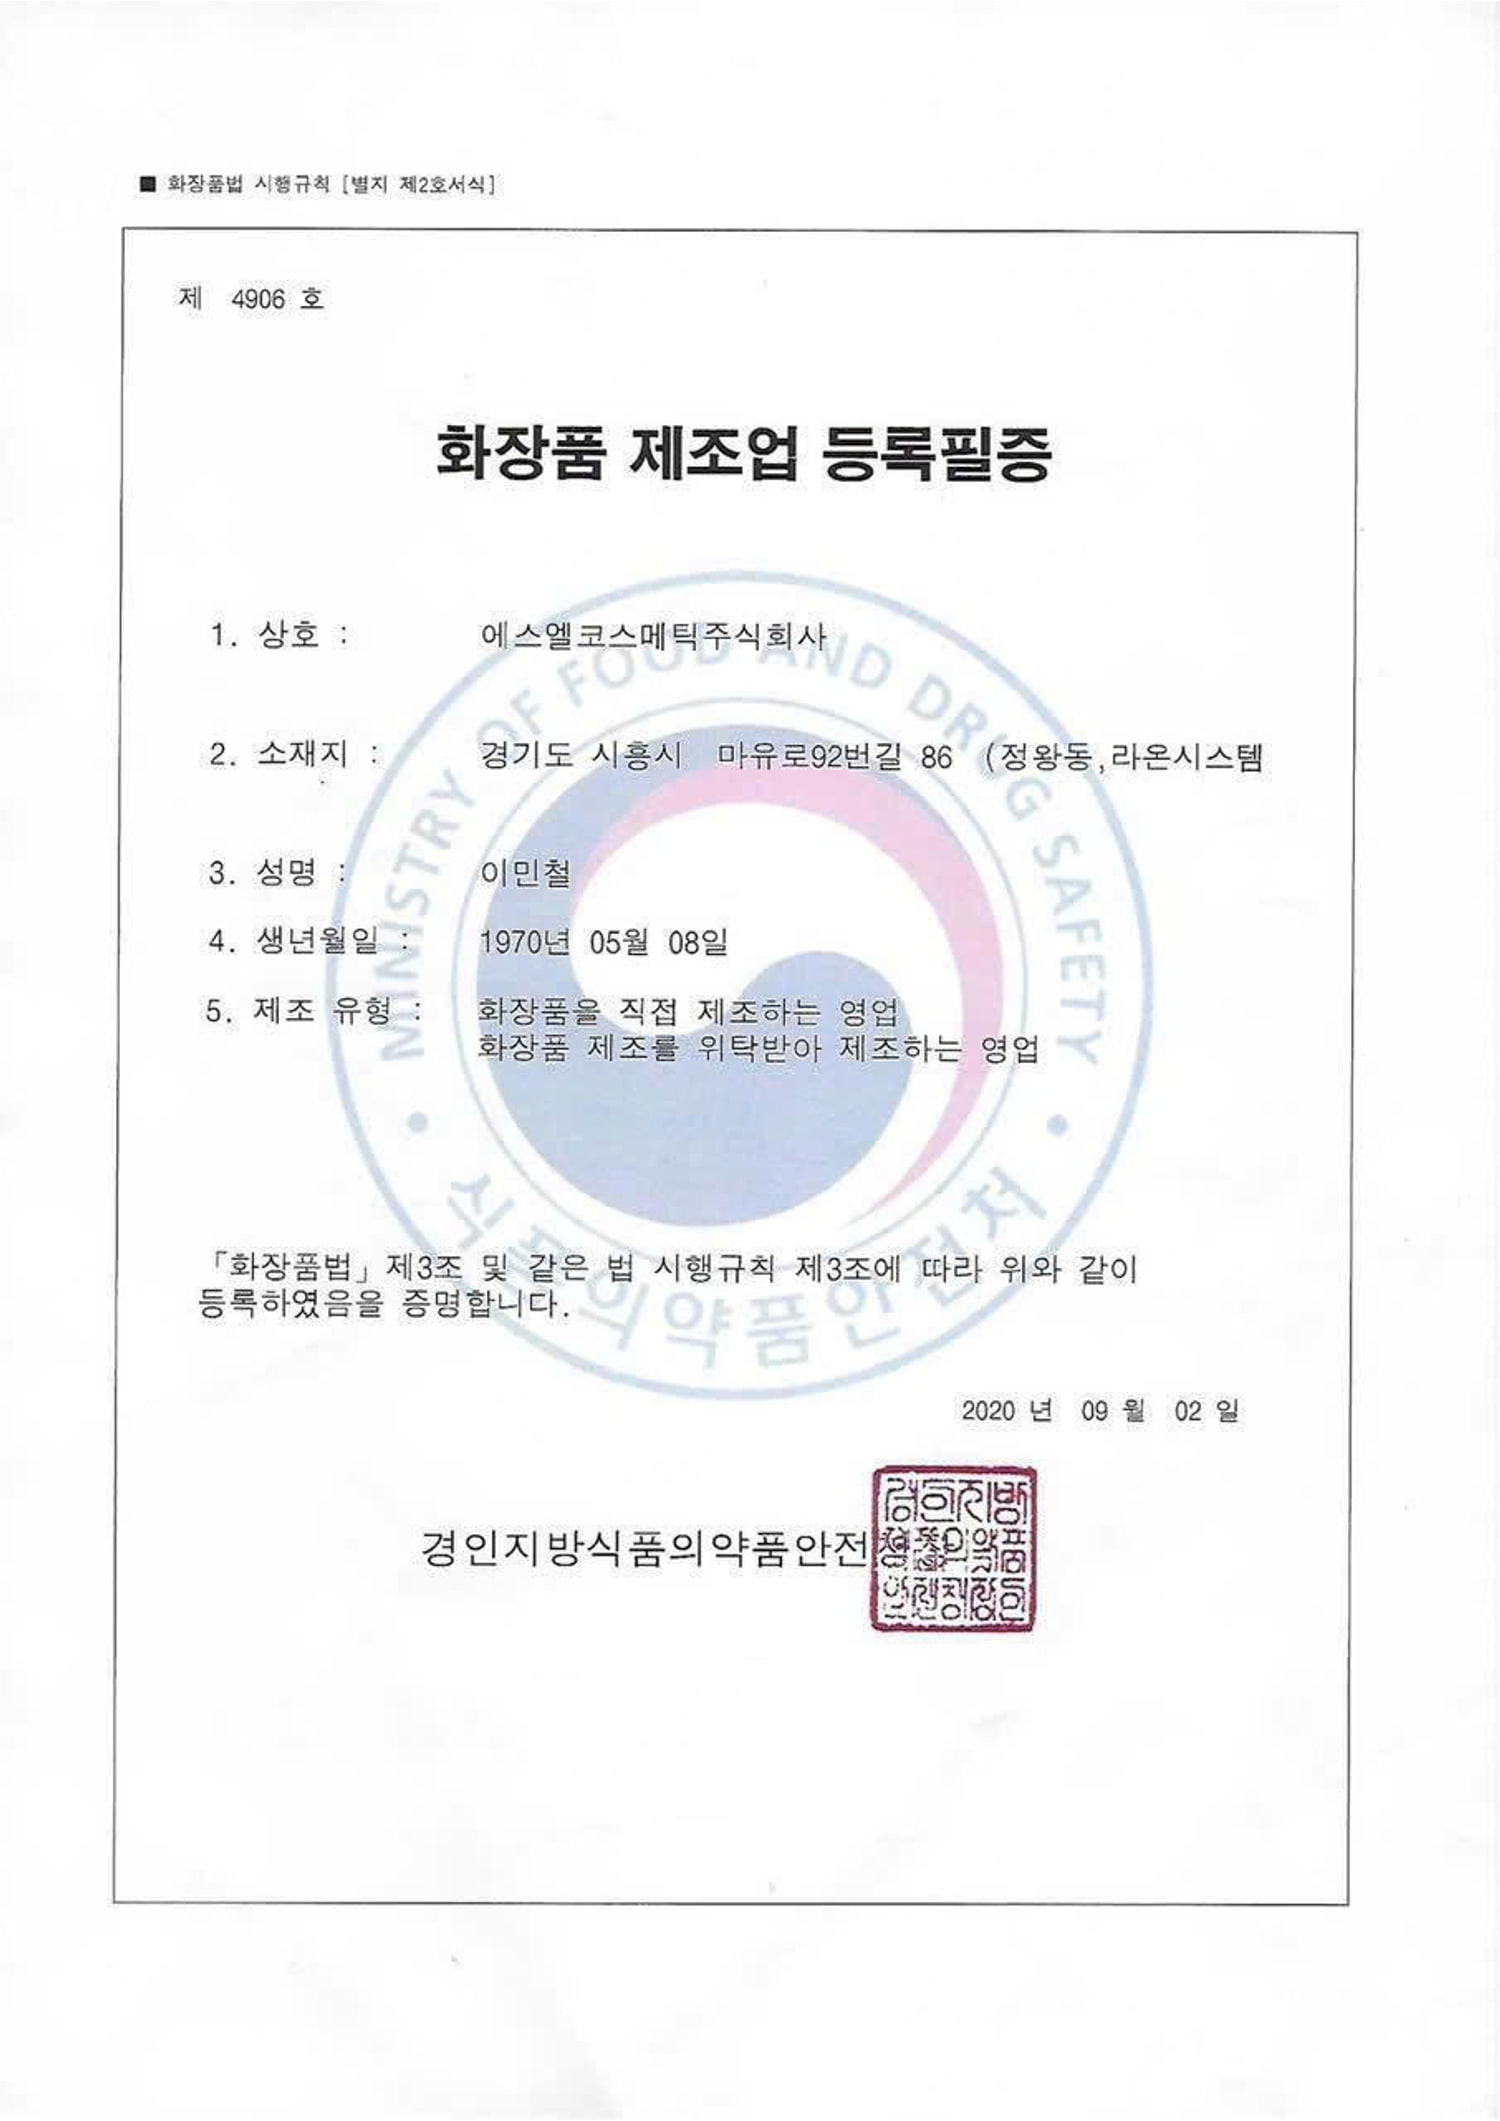
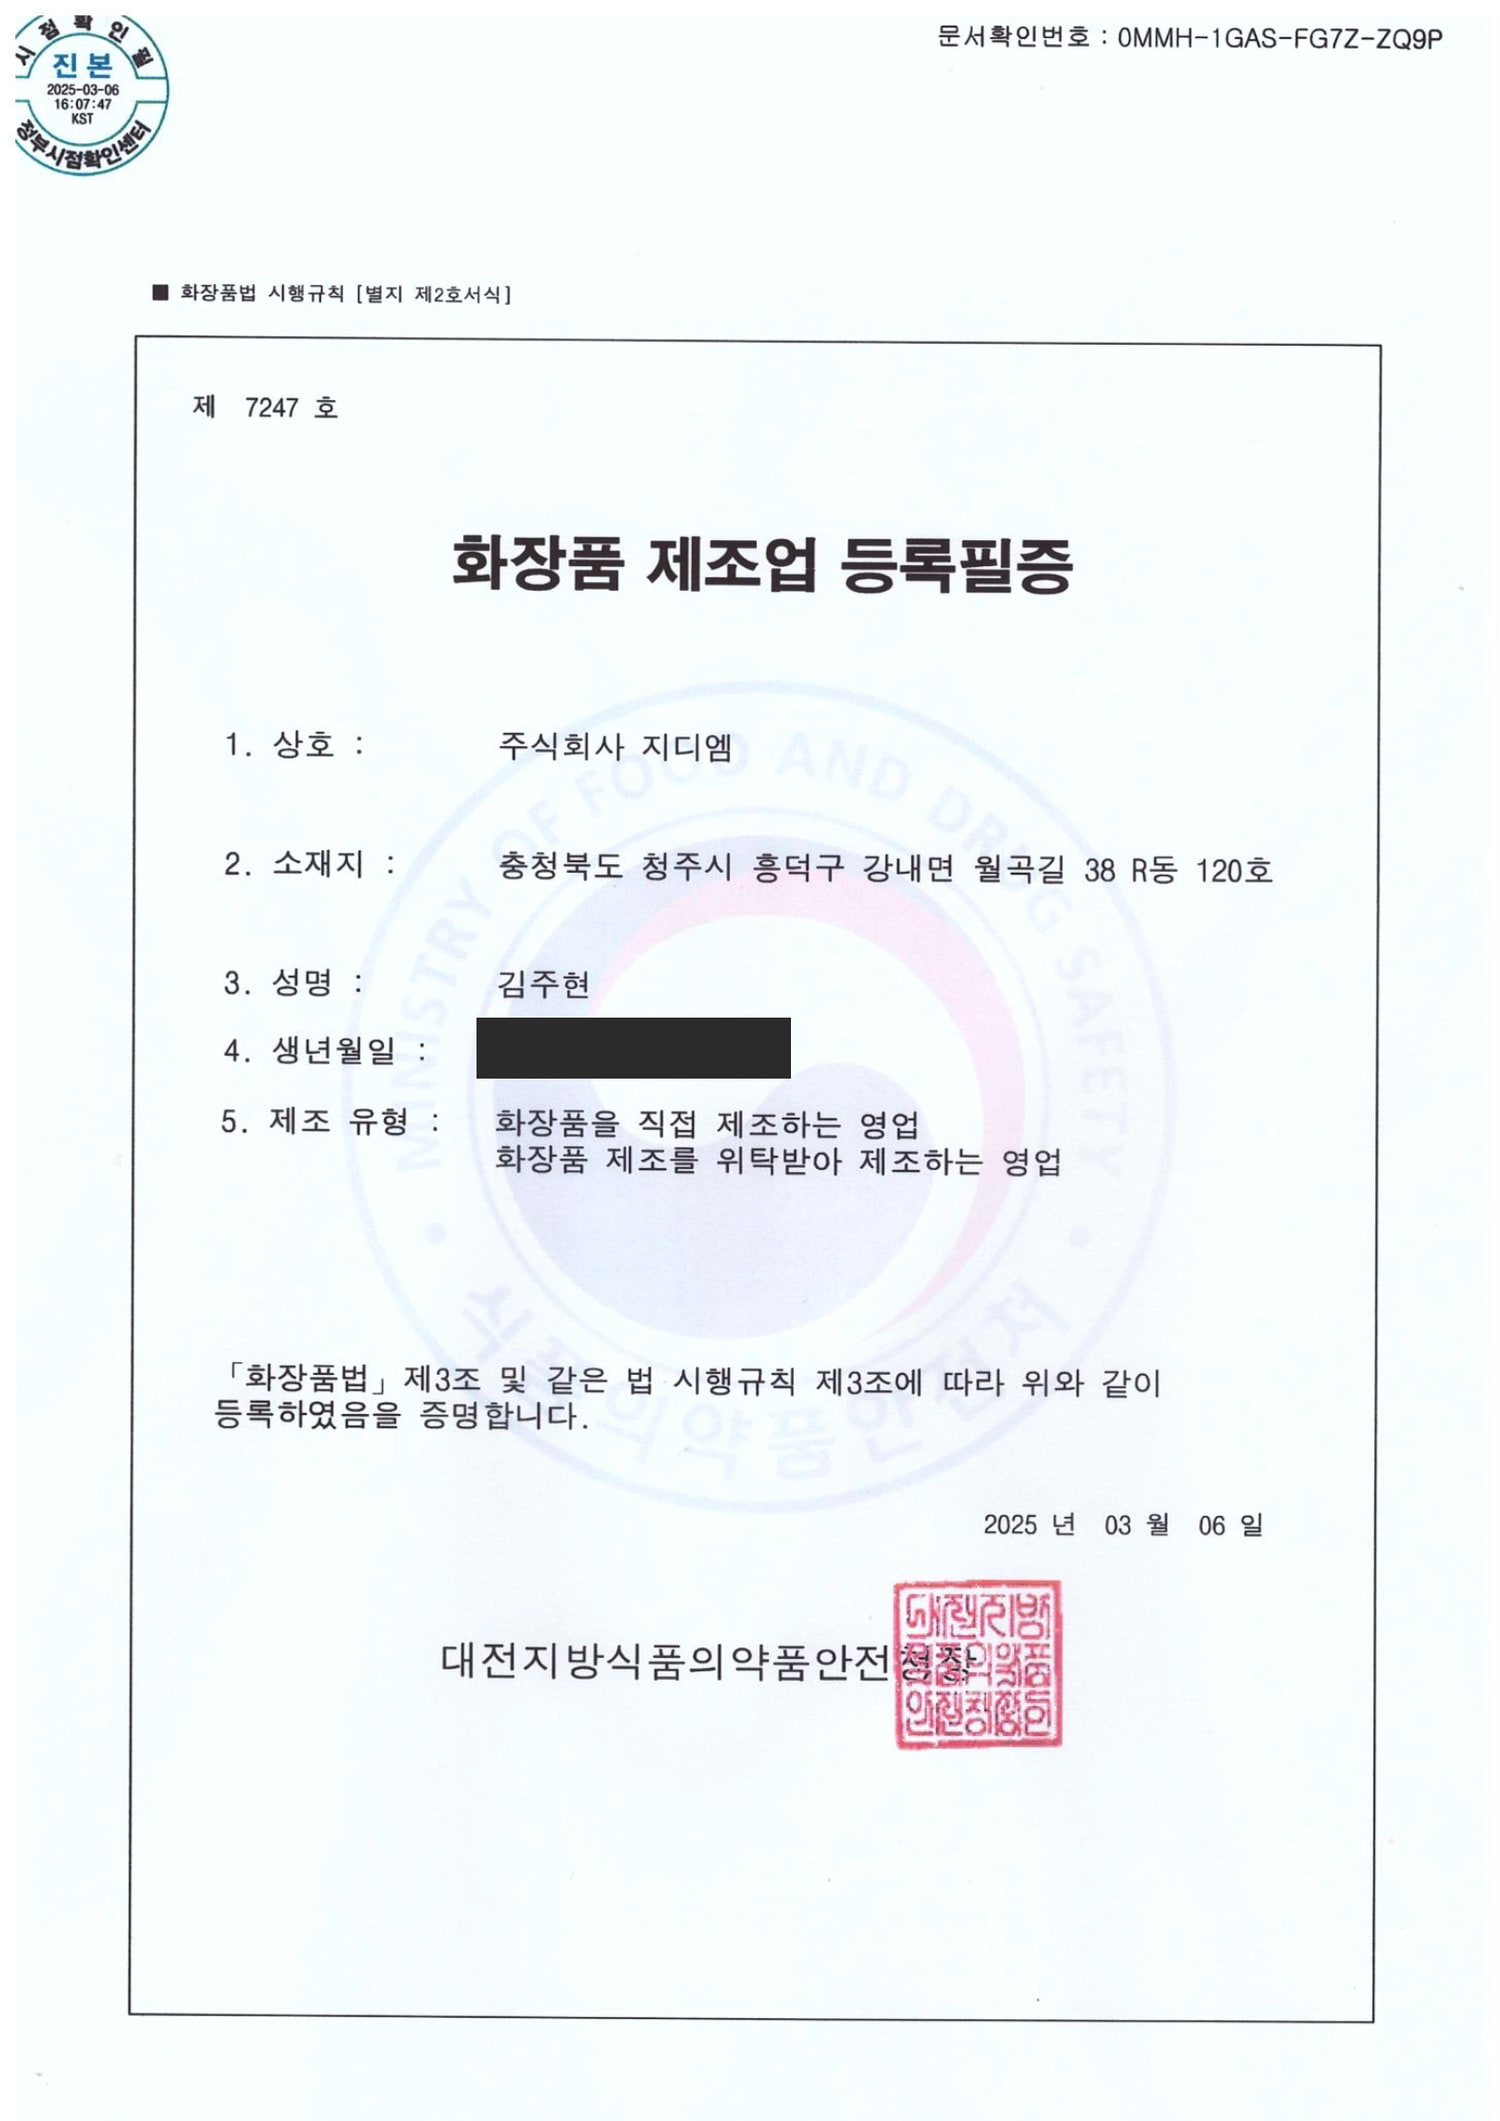
Replace two certificates with the ones that belong to this company
The manufacturing licence and the patent on the page were 에스엘코스메틱(주)
and 이인철 — a different company and a different person. Both are now
주식회사 지디엠's own documents, rendered from the PDFs the owner supplied:
licence 제7247호 (대전지방식품의약품안전청, 2025.03.06) and patent
제10-2599300호 (2023.11.02).

The patent is retagged. It covers a scalp-colouring ink, not this sunscreen,
and it sat under "Patented Formulation" on a sunscreen page — which reads as
"this sunscreen is patented". A buyer opening the scan finds otherwise, and
then has reason to doubt the claims that are true. It is now "R&D
Capability", titled for what it actually protects, with a line saying
plainly that it is separate from this product. The evidence of R&D capacity,
which is the real reason to show it, survives intact.

Personal data is masked in both scans. The licence carried the
representative's full date of birth and the patent carried his home address
and the first half of his resident registration number. These images are
public and downloadable; none of that is anything a buyer needs, while
issuer, number, date and company name — everything that makes the document
verifiable — is untouched. The source PDFs are deliberately not published
for the same reason.

Two things still outstanding, both raised with the owner: 기업부설연구소
인정서 is still 에스엘코스메틱's and a 지디엠 one is coming, and the second
patent (제10-2672429호) was left out at the owner's request because it is
[…]

diff --git a/src/components/Certifications.tsx b/src/components/Certifications.tsx
@@ -43,22 +43,23 @@ const DOCS: Doc[] = [
   {
     tag: "Regulatory Approval",
     title: "화장품 제조업 등록필증",
-    holder: "에스엘코스메틱(주)",
-    org: "경인지방식품의약품안전청",
-    no: "제4906호",
-    date: "2020.09.02",
+    holder: "주식회사 지디엠",
+    org: "대전지방식품의약품안전청",
+    no: "제7247호",
+    date: "2025.03.06",
     detail: "직접 제조 + 위탁 제조 영업 등록",
     img: "cert_mfg_license",
     pdf: "cert_mfg_license.pdf",
   },
   {
-    tag: "Patented Formulation",
-    title: "항산화 / 항염 천연 추출물 조성물 특허",
-    holder: "이인철",
+    tag: "R&D Capability",
+    title: "항산화·탈모방지 두피 착색 잉크 조성물 특허",
+    holder: "주식회사 지디엠",
     org: "대한민국 특허청",
-    no: "제10-2533040호",
-    date: "2023.05.11 등록 (출원 2021.08.03)",
-    detail: "출원번호 제10-2021-0101725호",
+    no: "제10-2599300호",
+    date: "2023.11.02 등록 (출원 2023.05.25)",
+    detail:
+      "출원번호 제10-2023-0067460호 · 천연 추출물을 유효성분으로 포함하는 조성물 — 본 선크림과는 별개의 자사 보유 특허입니다",
     img: "cert_patent",
     pdf: "cert_patent.pdf",
   },
